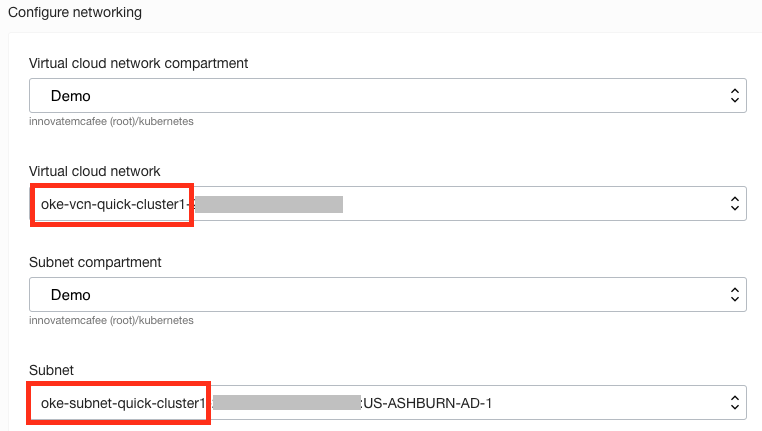
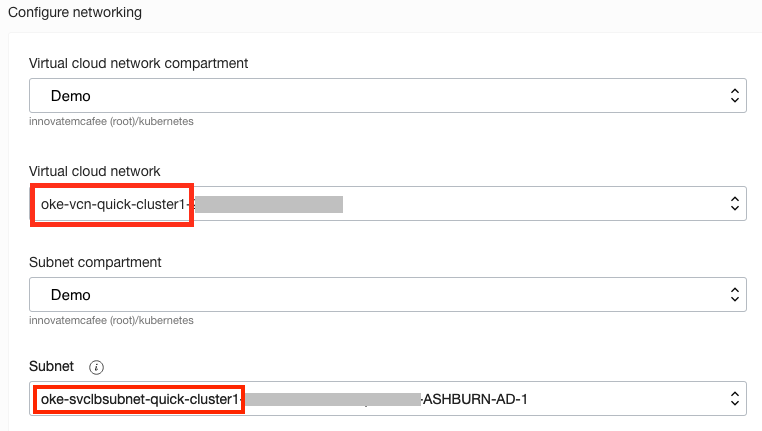
move instance to LB subnet

Changed region(s): [[0.0302, 0.8445, 0.9659, 0.9954]]

diff --git a/workshops/container-native-development-with-oke/LabGuide200.md b/workshops/container-native-development-with-oke/LabGuide200.md
@@ -229,7 +229,7 @@ Compartments are used to isolate resources within your OCI tenant. Role-based ac
     - In the VCN Compartment field, ensure **Demo** is selected.
     - In the VCN field, ensure **oke-vcn-quick-cluster1** is selected (if you changed the name of your cluster, the `cluster1` portion of these name will differ).
     - In the Subnet Compartment field, ensure **Demo** is selected.
-    - In the Subnet field, select the subnet that begins with **oke-subnet-quick-cluster1**. Take care __not__ to select the subnet that begins with oke-svclbsubnet, as this one has a wide open security list (it is meant only for load balancers).  
+    - In the Subnet field, select the subnet that begins with **oke-svclbsubnet-quick-cluster1**, which is in the **Public Subnets** section. Take care __not__ to select the subnet that begins with oke-subnet, as this one is a private subnet (not accessible from the internet).
 
     ![](images/LabGuide200-e67f88fa.png)
 
